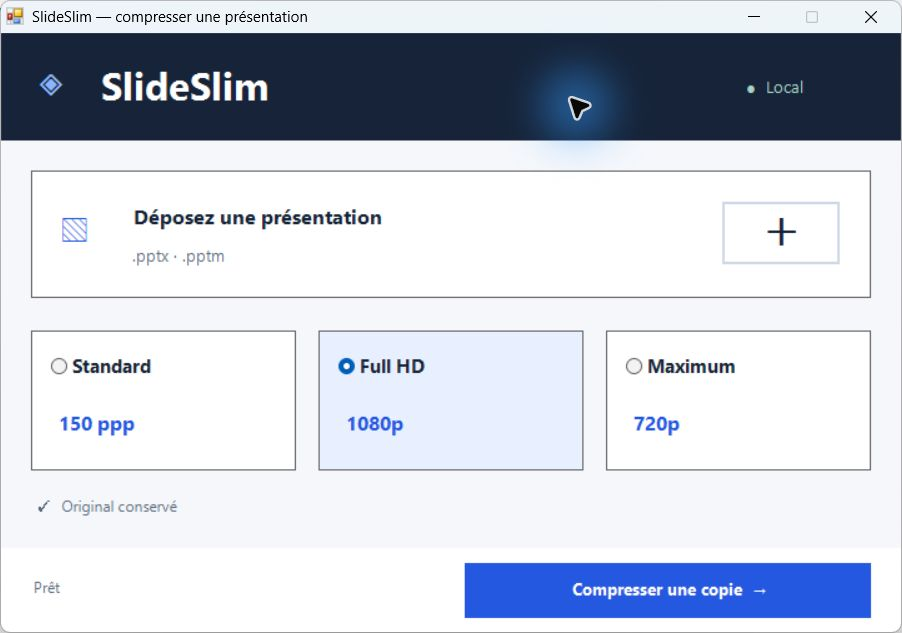
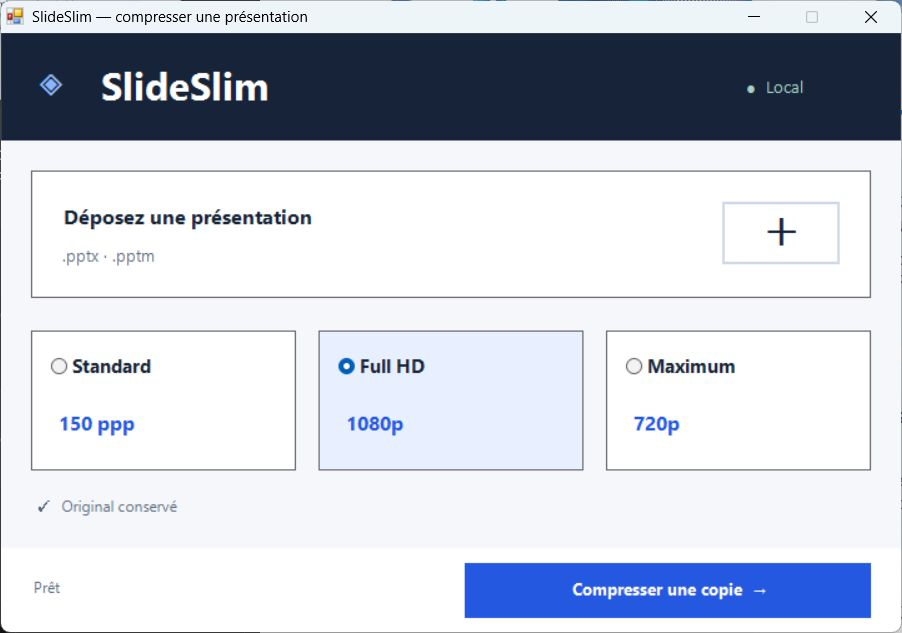
Remove drop zone symbol and refresh application screenshots

diff --git a/src/Launcher.cs b/src/Launcher.cs
@@ -32,9 +32,8 @@ namespace PPTimizNext {
    var local=TextAt("●  Local",594,34,105,24,10,Color.FromArgb(166,212,196),false);
    tips.SetToolTip(local,"Traitement sur cet ordinateur. Aucun document envoyé vers un serveur."); header.Controls.Add(local); Controls.Add(header);
    var drop=new Panel { Bounds=new Rectangle(24,110,672,102),BackColor=Color.White,BorderStyle=BorderStyle.FixedSingle,AllowDrop=true };
-   var icon=TextAt("▧",17,20,50,56,29,Accent,false); drop.Controls.Add(icon);
-   fileName.SetBounds(78,25,405,28); fileName.Text="Déposez une présentation"; fileName.Font=new Font("Segoe UI",12,FontStyle.Bold); fileName.AutoEllipsis=true;
-   fileInfo.SetBounds(78,58,405,24); fileInfo.ForeColor=Muted; fileInfo.Text=".pptx · .pptm";
+   fileName.SetBounds(22,25,465,28); fileName.Text="Déposez une présentation"; fileName.Font=new Font("Segoe UI",12,FontStyle.Bold); fileName.AutoEllipsis=true;
+   fileInfo.SetBounds(22,58,465,24); fileInfo.ForeColor=Muted; fileInfo.Text=".pptx · .pptm";
    StyleButton(browse,"＋",new Rectangle(552,24,94,50),false); browse.Font=new Font("Segoe UI",21); browse.AccessibleName="Choisir une présentation";
    tips.SetToolTip(browse,"Choisir une présentation PowerPoint. Enregistrez vos modifications dans PowerPoint avant de la sélectionner.");
    tips.SetToolTip(fileName,"Déposez un fichier .pptx ou .pptm ici, ou utilisez le bouton +.");
